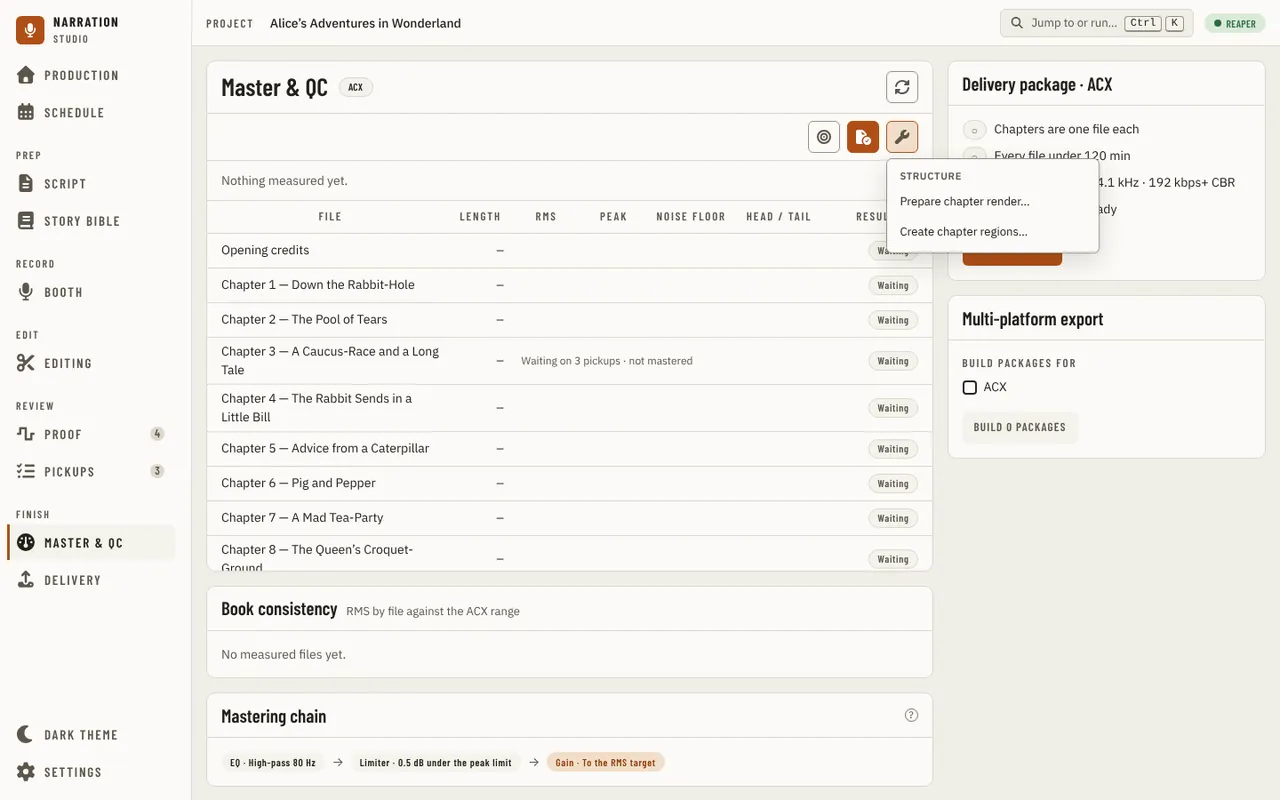
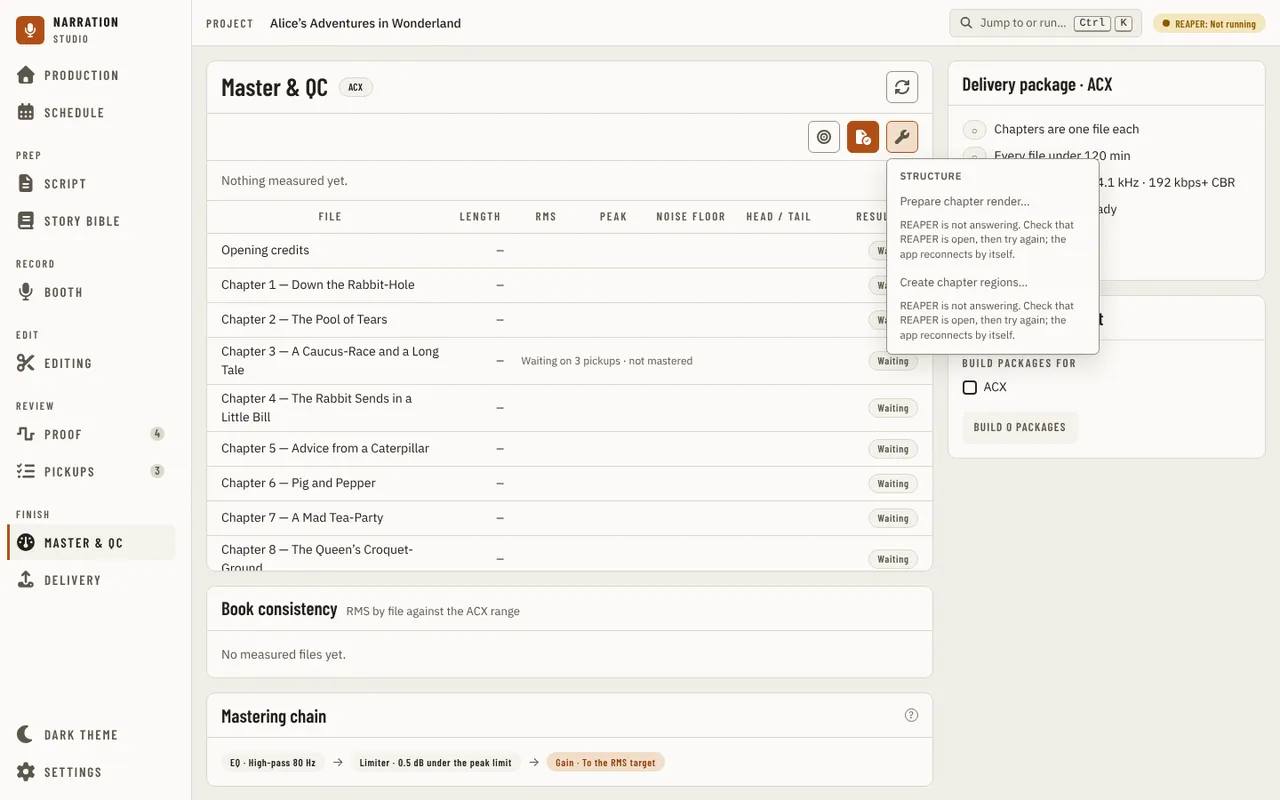
test(ui): capture the DAW tools menu on Master with REAPER not answering
Refs #2820. The plain Master mock has chapters linked, so its captured menu is
the live one; the off state with the DAW's reason is its own state and the
guide image.

Claude-Session: https://claude.ai/code/session_01EBTykdjeMpJ69hrGVvqcFd

Changed region(s): [[0.6875, 0.25, 0.875, 0.4688], [0.75, 0.0, 1.0, 0.0625]]

diff --git a/src/studio/ui/tests/visual/drivers/master.ts b/src/studio/ui/tests/visual/drivers/master.ts
@@ -66,9 +66,17 @@ export const masterDrivers: Record<string, Driver> = {
     await openMaster(page);
     await page.getByText(/^Nothing measured yet/).waitFor();
   },
-  // The DAW tools menu beside Check files (#2820), opened before anything is measured: no chapter is linked in the plain mock, so both entries are off, each with its reason.
+  // The DAW tools menu beside Check files (#2820), opened before anything is measured: the plain mock has chapters linked, so both entries are live.
   'daw-tools-menu': async (page) => {
     await openMaster(page);
+    await page.getByText(/^Nothing measured yet/).waitFor();
+    await page.getByRole('button', { name: 'DAW tools' }).click();
+    const menu = page.getByRole('menu');
+    await menu.waitFor();
+    await expect(menu.getByText('Reading the REAPER project…')).toHaveCount(0);
+  },
+  'daw-tools-menu-off': async (page) => {
+    await openMaster(page, '?mockDawChoice=not-running');
     await page.getByText(/^Nothing measured yet/).waitFor();
     await page.getByRole('button', { name: 'DAW tools' }).click();
     const menu = page.getByRole('menu');

diff --git a/src/studio/ui/tests/visual/catalog/master.ts b/src/studio/ui/tests/visual/catalog/master.ts
@@ -22,6 +22,13 @@ export const masterStates: StateEntry[] = [
   },
   {
     page: 'master',
+    state: 'daw-tools-menu-off',
+    description:
+      'Master & QC with nothing measured, the DAW tools menu beside Check files opened - both entries off, each saying no chapter is linked to a REAPER track yet',
+    ...POPUP_ANCHORED_AT_FIRST_WIDTH,
+  },
+  {
+    page: 'master',
     state: 'running',
     description:
       'Master & QC, a check part way through (?mockMeasure=running) - its real progress from the bytes read, what it is reading and Cancel in the table card under Check files, the file being read marked Measuring and the rest Waiting',

diff --git a/src/studio/ui/tests/visual/overlays/master.ts b/src/studio/ui/tests/visual/overlays/master.ts
@@ -104,6 +104,7 @@ export const masterCases: OverlayCase[] = [
   },
   afterMeasuring(clickCase('chapter picker', 'menu', picker)),
   fromState('master', 'daw-tools-menu', 'menu'),
+  fromState('master', 'daw-tools-menu-off', 'menu'),
   hint('hint on Play the quietest 5 s', 'Play the quietest 5 s'),
   // Not at 320x300: the icon is in the table panel's header at the top of the page, and the guard only scrolls it to the window's top edge, under the
   // shell's top bar, so the pointer never reaches it (a narrator scrolls further). Listed as not covered; the other widths are.

diff --git a/docs/guides/using-the-app/master-and-qc.md b/docs/guides/using-the-app/master-and-qc.md
@@ -25,7 +25,7 @@ the column on the right holds the [delivery package](#the-delivery-package) and
 
 Before any file has been measured, a wrench icon button (**DAW tools**) sits beside **Check files…** with the same **Structure** menu as [Editing's](editing.md#the-daw-tools-menu): **Create chapter regions…** and **Prepare chapter render…** are what come before there are rendered files to check. When a tool cannot be used it stays in the menu, greyed, with the reason under its name: the DAW is not answering, the REAPER project has no tracks yet, no chapter is linked to a REAPER track yet (link one on [Production](production.md)), or the project records in Audacity, which has neither regions nor render setup to write. The menu reads the project the first time you open it, so for a moment both entries say **Reading the REAPER project…**.
 
-![Master & QC with nothing measured: the DAW tools menu beside Check files, both entries off with the reason that no chapter is linked to a REAPER track yet](../../images/ui/master-daw-tools.webp)
+![Master & QC with nothing measured and REAPER not answering: the DAW tools menu beside Check files, both entries off with REAPER's own sentence under each](../../images/ui/master-daw-tools.webp)
 
 Press the **Check files…** icon button and pick one or more rendered chapter files. Only WAV files are measured for now;
 a file in another format, or one that cannot be read, is listed with the reason and does not stop the
